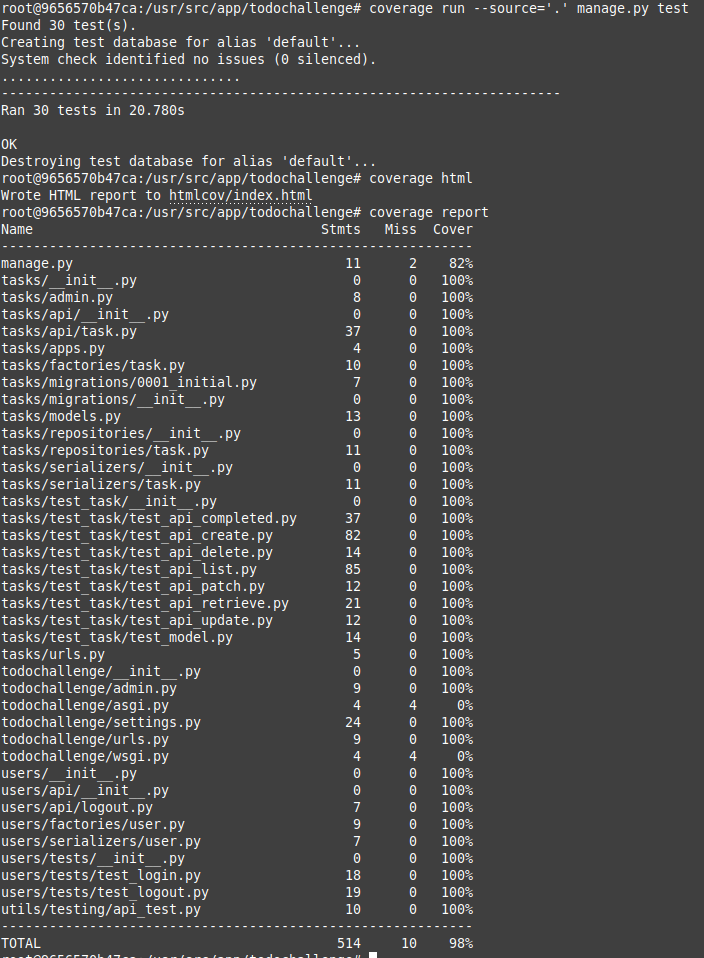
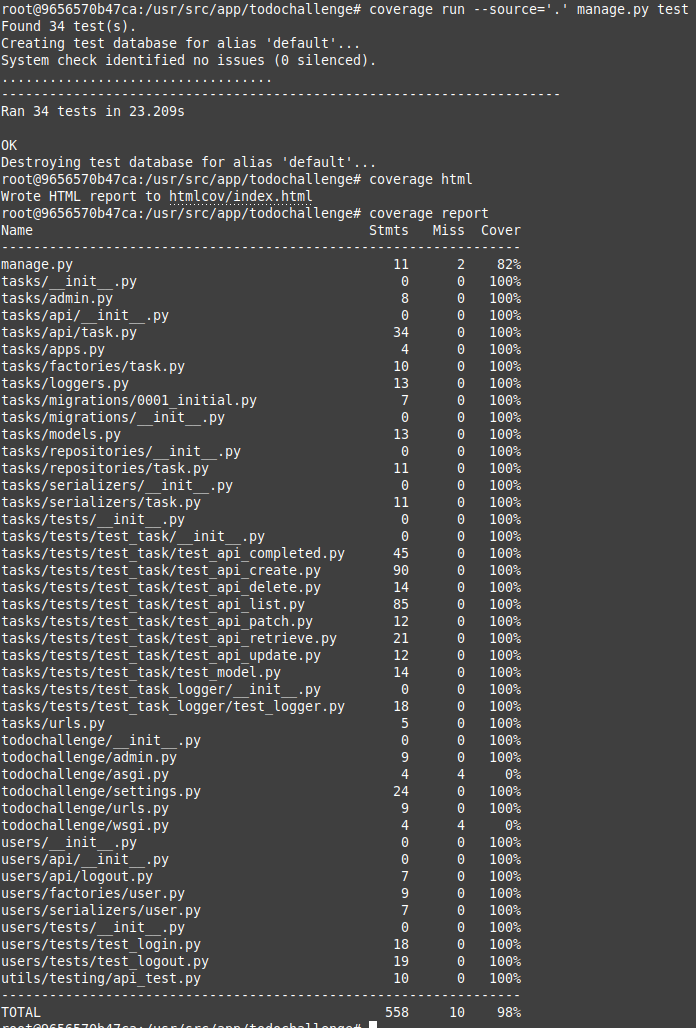
ADD: logger test + refactor

Changed region(s): [[0.0, 0.0, 0.7543, 1.0], [0.8147, 0.0, 0.9957, 0.0303], [0.694, 0.0, 0.7845, 0.0303]]

diff --git a/todochallenge/tasks/api/task.py b/todochallenge/tasks/api/task.py
@@ -1,4 +1,3 @@
-import logging
 from django_filters.rest_framework import DjangoFilterBackend
 from django_filters import rest_framework as filters
 
@@ -9,9 +8,7 @@ from rest_framework.response import Response
 from tasks.models import Task
 from tasks.repositories.task import TaskRepository
 from tasks.serializers.task import TaskSerializer
-
-
-logger = logging.getLogger('tasks') 
+from tasks.loggers import TaskLogger
 
 
 class TaskFilter(filters.FilterSet):
@@ -33,8 +30,7 @@ class TaskViewSet(viewsets.ModelViewSet):
     def perform_create(self, serializer):
         user = self.request.user
         serializer.save(user=user)
-        log = f'Task created (id: {serializer.instance.id}). User: {user.id}.'
-        logger.info(log)
+        TaskLogger.task_created(serializer.instance, user)
 
     def get_queryset(self):
         return TaskRepository.all_with_user()
@@ -44,6 +40,5 @@ class TaskViewSet(viewsets.ModelViewSet):
         task = self.get_object()
         task.completed = True
         task.save()
-        log = f'Task completed (id: {task.id}). User: {request.user.id}.'
-        logger.info(log)
+        TaskLogger.task_completed(task, request.user)
         return Response(self.serializer_class(task).data)

diff --git a/todochallenge/tasks/tests/test_task_logger/test_logger.py b/todochallenge/tasks/tests/test_task_logger/test_logger.py
@@ -1,0 +1,24 @@
+from unittest.mock import patch
+from tasks.loggers import TaskLogger
+
+from tasks.factories.task import TaskFactory
+from utils.testing.api_test import APITestCase
+
+
+class TestTaskLogger(APITestCase):
+
+    def setUp(self):
+        self.task = TaskFactory()
+        self.user = self.task.user
+
+    @patch('tasks.loggers.logger')
+    def test_task_created_logs_info(self, mock_logger):
+        TaskLogger.task_created(self.task, self.user)
+        expected = f'Task created (id: {self.task.id}). User: {self.user.id}.'
+        mock_logger.info.assert_called_once_with(expected)
+
+    @patch('tasks.loggers.logger')
+    def test_task_completed_logs_info(self, mock_logger):
+        TaskLogger.task_completed(self.task, self.user)
+        expected = f'Task completed (id: {self.task.id}). User: {self.user.id}.'
+        mock_logger.info.assert_called_once_with(expected)

diff --git a/todochallenge/tasks/tests/test_task/test_api_create.py b/todochallenge/tasks/tests/test_task/test_api_create.py
@@ -1,4 +1,5 @@
 from rest_framework import status
+from unittest.mock import patch
 from utils.testing.api_test import CustomAPITestCase
 from users.factories.user import UserFactory
 
@@ -96,3 +97,11 @@ class APITaskCreateTests(CustomAPITestCase):
         response = self.client.post(self.url, body)
         self.assertEqual(response.status_code, status.HTTP_201_CREATED)
         self.assertFalse(response.data['updated_at'] == body['updated_at'])
+
+    @patch('tasks.loggers.logger')
+    def test_create_with_log(self, mock_logger):
+        response = self.client.post(self.url, self.body)
+        self.assertEqual(response.status_code, status.HTTP_201_CREATED)
+        task = response.data
+        expected = f'Task created (id: {task["id"]}). User: {self.user_login.id}.'
+        mock_logger.info.assert_called_once_with(expected)

diff --git a/todochallenge/tasks/tests/test_task/test_api_completed.py b/todochallenge/tasks/tests/test_task/test_api_completed.py
@@ -1,4 +1,5 @@
 from rest_framework import status
+from unittest.mock import patch
 from utils.testing.api_test import CustomAPITestCase
 from tasks.factories.task import TaskFactory
 
@@ -40,3 +41,11 @@ class APITaskCompletedTests(CustomAPITestCase):
         self.assertIsNotNone(task['user'])
         self.assertIsNotNone(task['created_at'])
         self.assertIsNotNone(task['updated_at'])
+
+    @patch('tasks.loggers.logger')
+    def test_set_completed_with_log(self, mock_logger):
+        url = self.get_url(self.task.id)
+        response = self.client.post(url + self.final_url)
+        self.assertEqual(response.status_code, status.HTTP_200_OK)
+        expected = f'Task completed (id: {self.task.id}). User: {self.user_login.id}.'
+        mock_logger.info.assert_called_once_with(expected)

diff --git a/todochallenge/tasks/loggers.py b/todochallenge/tasks/loggers.py
@@ -1,0 +1,17 @@
+import logging
+from django.contrib.auth.models import User
+from tasks.models import Task
+logger = logging.getLogger('tasks')
+
+
+class TaskLogger:
+
+    @staticmethod
+    def task_created(task: Task, user: User):
+        log = f'Task created (id: {task.id}). User: {user.id}.'
+        logger.info(log)
+
+    @staticmethod
+    def task_completed(task: Task, user: User):
+        log = f'Task completed (id: {task.id}). User: {user.id}.'
+        logger.info(log)
